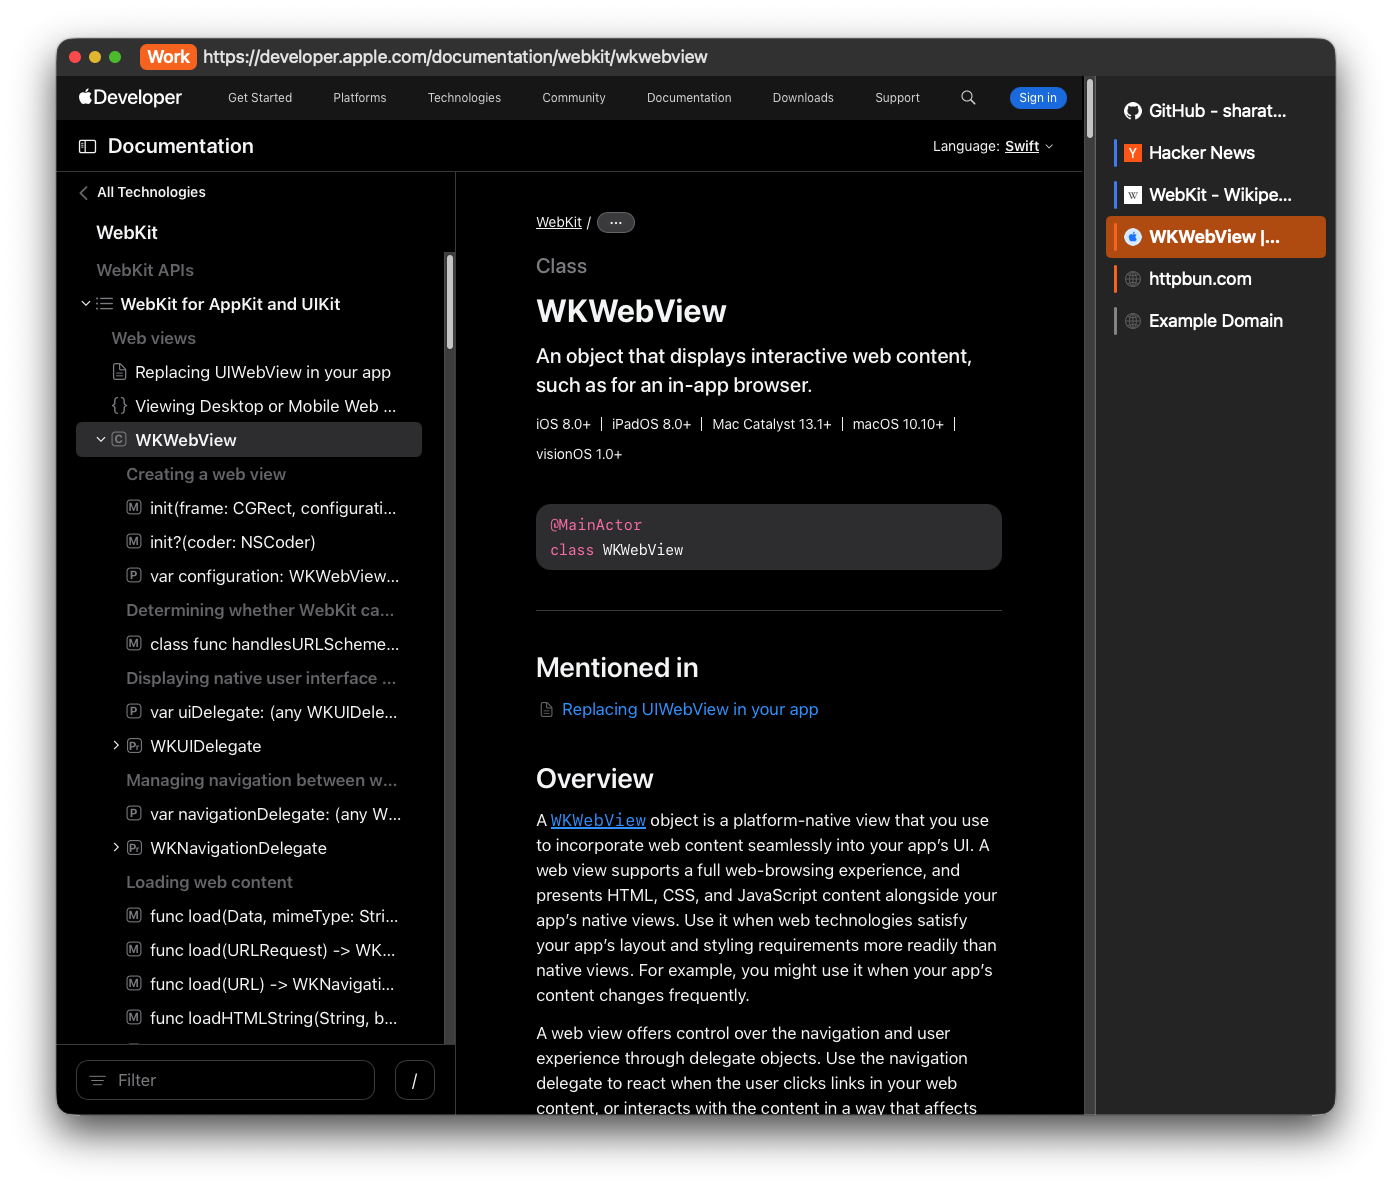
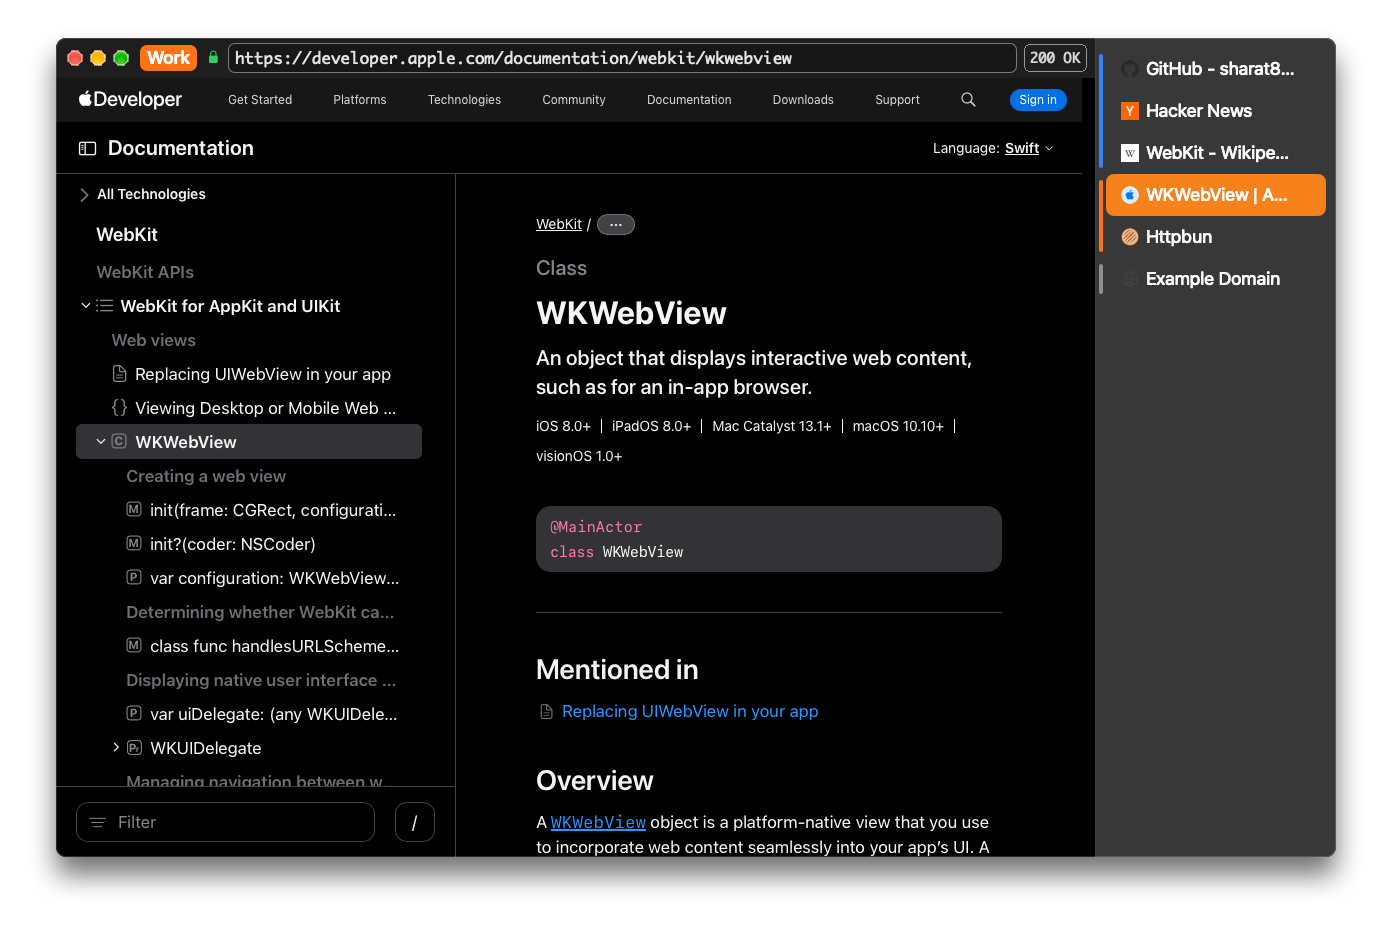
README: drop menus screenshot and rebuild light/dark screenshots

Changed region(s): [[0.0309, 0.0311, 0.9885, 0.9968], [0.3707, 0.1557, 0.7414, 0.4984], [0.3707, 0.5295, 0.7414, 0.623]]

diff --git a/README.md b/README.md
@@ -25,8 +25,6 @@ My minimal web browser for macOS, built on the system's WebKit. Vibed just for m
   <img alt="Twinkle showing Apple's WKWebView documentation in a Work container, with the tab list on the right" src="docs/screenshot-light.png">
 </picture>
 
-<img alt="Twinkle's Tools menu open over a GitHub page: every action is a menu item, and the address field is in Monaco so look-alike letters stand apart" src="docs/screenshot-menus.png" width="751">
-
 ## Build and run
 
 No packaged versions for now. Build and perhaps vibe more things yourself. You can ask your agent to build.
